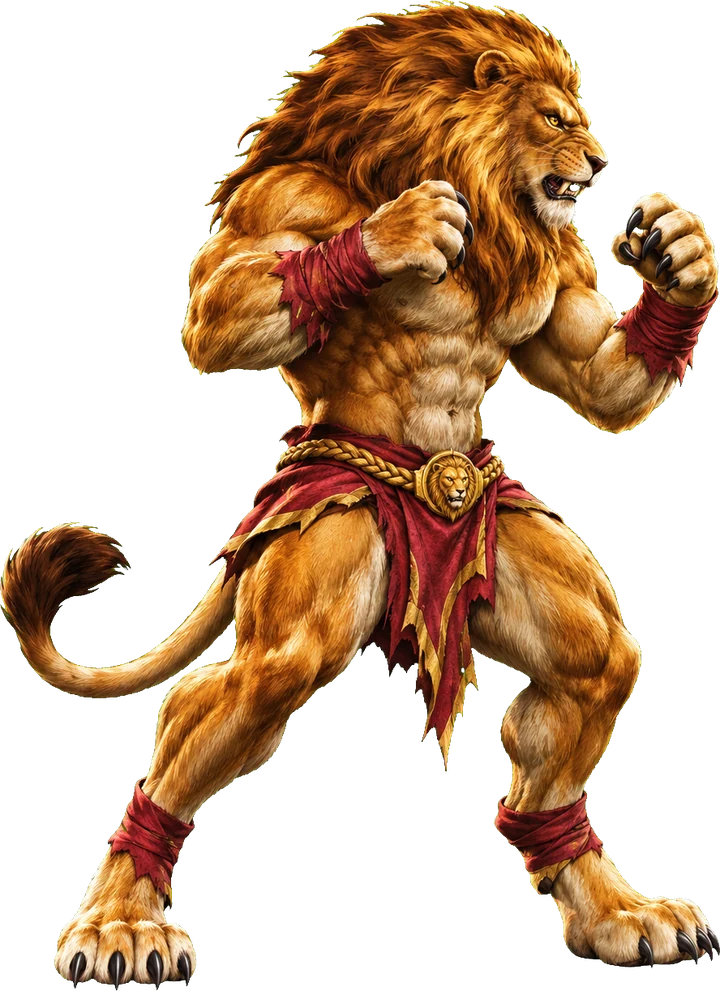
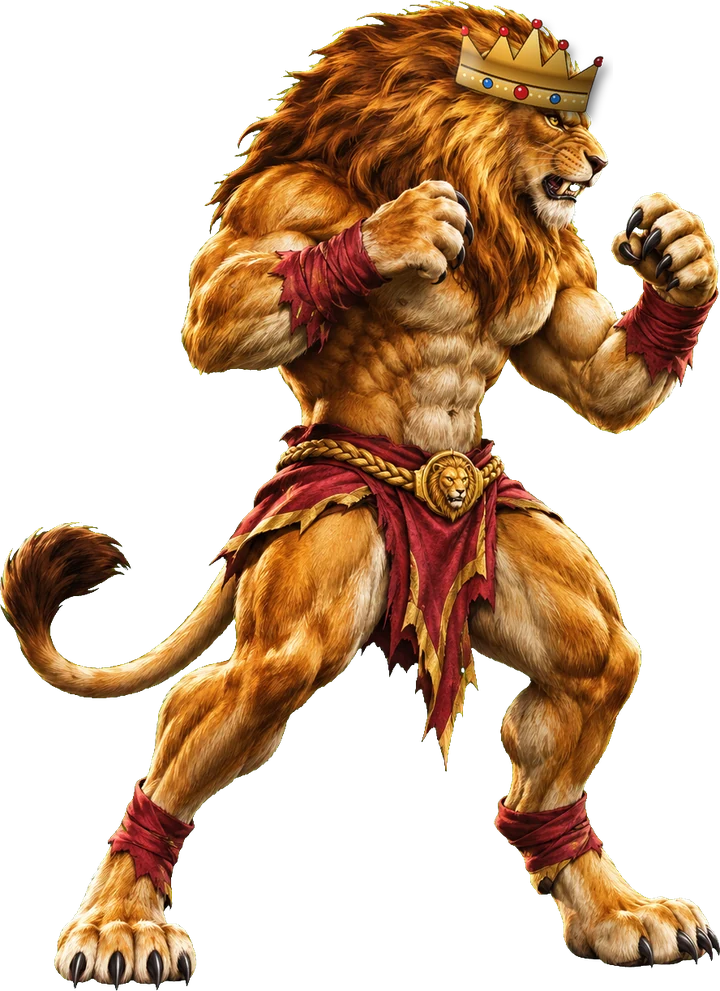
Build 2.0: crowned Lion on title screen, credit line, drop V2
Claude-Session: https://claude.ai/code/session_01Wp8cgXaeB7ersb1kcdwUzz

Changed region(s): [[0.6111, 0.0, 0.8556, 0.1211]]

diff --git a/game/index.html b/game/index.html
@@ -2,12 +2,12 @@
 <html lang="en">
 <head>
   <meta charset="utf-8"><meta name="viewport" content="width=device-width,initial-scale=1">
-  <meta name="theme-color" content="#10150f"><title>King of the Jungle V2</title>
+  <meta name="theme-color" content="#10150f"><title>King of the Jungle</title>
   <link rel="stylesheet" href="styles.css">
 </head>
 <body>
   <main id="app">
-    <header class="topbar"><div class="brand-mark">KOTJ</div><div><div class="eyebrow">THE WILD FIGHTING CHAMPIONSHIP</div><h1>KING OF THE JUNGLE <span>V2</span></h1></div><div class="build-tag">WEB BUILD · 1.9</div></header>
+    <header class="topbar"><div class="brand-mark">KOTJ</div><div><div class="eyebrow">THE WILD FIGHTING CHAMPIONSHIP</div><h1>KING OF THE JUNGLE</h1></div><div class="build-tag">WEB BUILD · 2.0</div></header>
     <section id="menu" class="screen cover">
       <div class="cover-bg"></div><div class="cover-rays"></div><canvas id="embers" class="cover-embers"></canvas><div class="cover-vignette"></div>
       <div class="cover-hero"><div class="hero-glow"></div><img src="assets/characters/lion/lion-hero.webp" alt="The Lion, King of the Jungle"></div>
@@ -19,8 +19,8 @@
             <circle cx="60" cy="4" r="4.5" fill="#d8352a" stroke="#3a2306" stroke-width="2"/><circle cx="4" cy="14" r="4" fill="#d8352a" stroke="#3a2306" stroke-width="2"/><circle cx="116" cy="14" r="4" fill="#d8352a" stroke="#3a2306" stroke-width="2"/>
             <circle cx="60" cy="40" r="5" fill="#d8352a" stroke="#3a2306" stroke-width="2"/></svg>
           <h1 class="title"><span class="t-small">KING OF THE</span><span class="t-big">JUNGLE</span></h1>
-          <div class="v2">V2</div>
           <p class="tagline">THE WILD FIGHTING CHAMPIONSHIP</p>
+          <p class="credit">GAME MADE BY <b>J. HARDY</b></p>
         </div>
         <button id="press-start" class="press-start">PRESS START</button>
         <div id="cover-menu" class="cover-menu">
@@ -30,7 +30,7 @@
         </div>
       </div>
       <div class="cover-roster"><span>11 FIGHTERS · ONE THRONE</span><div id="cover-faces"></div></div>
-      <div class="cover-meta"><span id="cover-build">WEB BUILD · 1.9</span><span>Game made by J. Hardy</span></div>
+      <div class="cover-meta"><span id="cover-build">WEB BUILD · 2.0</span><span>© King of the Jungle · J. Hardy</span></div>
     </section>
     <section id="select" class="screen hidden">
       <div class="section-head"><p class="eyebrow">CHARACTER SELECT</p><h2>CHOOSE YOUR FIGHTER</h2><p id="select-instruction">Player 1: choose a fighter</p></div>

diff --git a/game/styles.css b/game/styles.css
@@ -174,3 +174,11 @@ body.on-cover .topbar,body.on-cover footer{display:none}
  .cover.started .cover-hero{height:46vh;opacity:.9;transition:height .5s,opacity .5s}
 }
 @media (max-height:560px) and (orientation:landscape){.v2{right:-26px;top:30px;font-size:30px}}
+
+/* 2.0: credit line under the title */
+.credit{margin:10px 0 0 6px;font:700 clamp(12px,1.25vw,15px) Inter,sans-serif;letter-spacing:.32em;color:rgba(255,244,214,.88);text-shadow:0 2px 6px #000;display:flex;align-items:center;gap:12px}
+.credit b{font-weight:900;color:#ffd77a;letter-spacing:.24em}
+.credit::before{content:"";width:34px;height:2px;background:linear-gradient(90deg,transparent,#e8b95b)}
+@media (max-width:760px){.credit{justify-content:center;margin:8px 0 0}.credit::before{display:none}}
+@media (max-height:560px) and (orientation:landscape){.credit{margin-top:6px;font-size:11px}}
+@media (max-height:560px) and (orientation:landscape){.cover-hero{height:93vh}.cover-meta span:last-child{display:none}}

diff --git a/README.md b/README.md
@@ -172,3 +172,9 @@ The fight system is rebuilt around KI-style combo mechanics, with original names
 - Roster strip of all 11 fighters, plus "Game made by J. Hardy".
 - Fixed: the Lion title art showed inside a bright green box (green screen never removed). It is now cut out cleanly (`assets/characters/lion/lion-hero.webp`).
 - Separate layouts for desktop, upright phone and sideways phone.
+
+## Web build 2.0: Crowned Lion
+- The title-screen Lion now wears a gold jeweled crown, drawn to fit his head (master art saved as `docs/references/lion-hero-crowned.png`).
+- Removed the V2 badge and "V2" from the page title.
+- "GAME MADE BY J. HARDY" credit line under the title on every layout.
+- Sideways phone: the crown is no longer clipped at the top.
